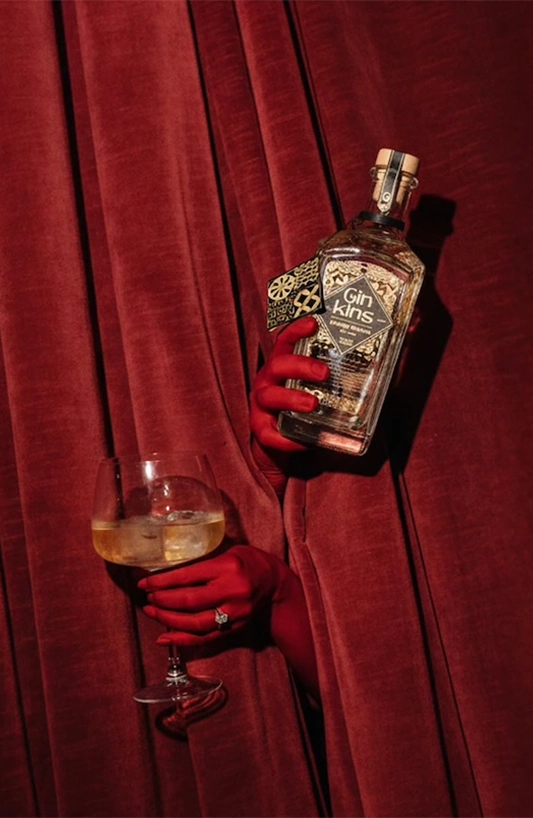
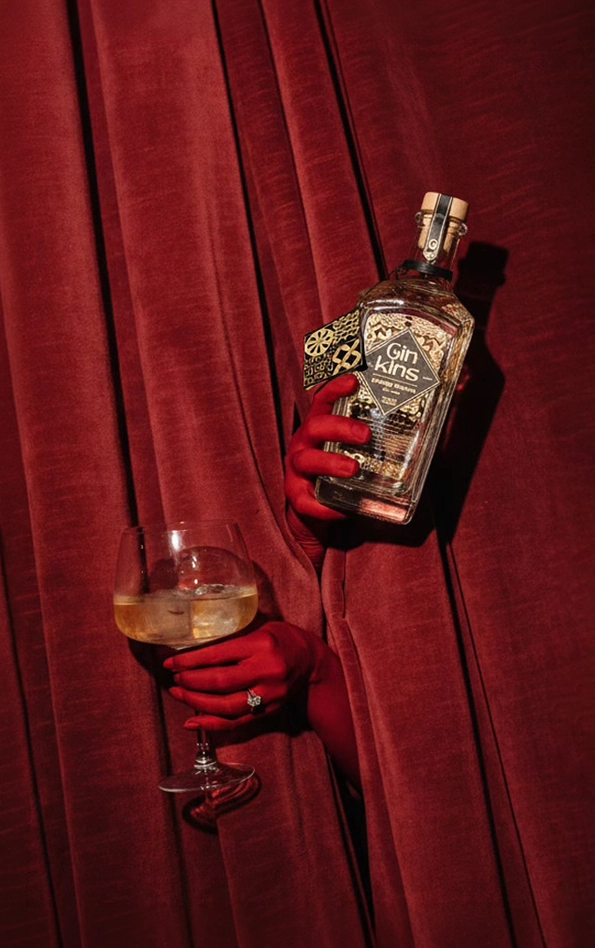
Adjusting animations and images

diff --git a/app/components/Home/Collection/CollectionCarousel.tsx b/app/components/Home/Collection/CollectionCarousel.tsx
@@ -18,7 +18,7 @@ gsap.registerPlugin(CustomEase);
 CustomEase.create('animistaEaseOutQuint', '0.23, 1, 0.32, 1');
 
 const AUTOPLAY_MS = 5500;
-const TRANSITION_MS = 2000;
+const TRANSITION_MS = 1000;
 const DRAG_ACTIVATE_PX = 6;
 const SWIPE_THRESHOLD = 48;
 const VELOCITY_THRESHOLD = 0.45;
@@ -751,39 +751,35 @@ export default function CollectionCarousel() {
       },
     );
 
-    const id = window.requestAnimationFrame(() => {
-      const tl = gsap.timeline({
-        onComplete: () => {
-          if (pendingGhostCleanupRef.current) {
-            pendingGhostCleanupRef.current = false;
-            flushSync(() => {
-              setGhost(null);
-            });
-          }
+    const tl = gsap.timeline({
+      onComplete: () => {
+        if (pendingGhostCleanupRef.current) {
+          pendingGhostCleanupRef.current = false;
+          flushSync(() => {
+            setGhost(null);
+          });
+        }
 
-          setPendingDesktopReveal(false);
-          setIsTransitioning(false);
-          isTransitioningRef.current = false;
-        },
-      });
-
-      targets.forEach(({ el, opacity }, index) => {
-        tl.to(
-          el,
-          {
-            ...getContentRevealVisuals(opacity),
-            duration: 0.42,
-            ease: 'animistaEaseOutQuint',
-            overwrite: 'auto',
-          },
-          index * 0.05,
-        );
-      });
+        setPendingDesktopReveal(false);
+        setIsTransitioning(false);
+        isTransitioningRef.current = false;
+      },
     });
 
-    return () => {
-      window.cancelAnimationFrame(id);
-    };
+    targets.forEach(({ el, opacity }) => {
+      tl.to(
+        el,
+        {
+          ...getContentRevealVisuals(opacity),
+          duration: 0.42,
+          ease: 'animistaEaseOutQuint',
+          overwrite: 'auto',
+        },
+        'syncStart',
+      );
+    });
+
+    return;
   }, [isCompact, pendingDesktopReveal, setDesktopBasePositions]);
 
   useLayoutEffect(() => {

diff --git a/app/components/WhereToBuy/Contact/ContactForm.tsx b/app/components/WhereToBuy/Contact/ContactForm.tsx
@@ -67,13 +67,20 @@ export function ContactForm() {
     }
 
     if (!res.ok) {
-      const body = await res.json();
-      console.error('CONTACT ERROR BODY:', body);
+      const errorMessage =
+        typeof body === 'object' &&
+        body !== null &&
+        'error' in body &&
+        typeof (body as { error?: unknown }).error === 'string'
+          ? (body as { error: string }).error
+          : typeof body === 'object' &&
+              body !== null &&
+              'details' in body &&
+              typeof (body as { details?: unknown }).details === 'string'
+            ? (body as { details: string }).details
+            : raw || 'Something went wrong';
 
-      setErrors({
-        form: [body.error ?? 'Something went wrong'],
-      });
-
+      setErrors({ form: [errorMessage] });
       return;
     }
 

diff --git a/app/components/AgeGate.tsx b/app/components/AgeGate.tsx
@@ -30,7 +30,7 @@ export default function AgeGate() {
     if (!isOpen || denied || !rootRef.current) return;
 
     const ctx = gsap.context(() => {
-      const tl = gsap.timeline({ defaults: { ease: 'power3.out' } });
+      const tl = gsap.timeline({ defaults: { ease: 'expo.out' } });
 
       tl.fromTo(
         '.agegate-reveal-on-scroll-top',
@@ -39,9 +39,9 @@ export default function AgeGate() {
           autoAlpha: 1,
           y: 0,
           scale: 1,
-          duration: 1,
-          delay: 0.2,
-          ease: 'power3.out',
+          duration: 1.2,
+          delay: 1,
+          ease: 'Cubic.easeOut',
         },
       );
       tl.fromTo(
@@ -51,10 +51,11 @@ export default function AgeGate() {
           autoAlpha: 1,
           y: 0,
           scale: 1,
-          duration: 1,
-          delay: 0.2,
-          ease: 'power3.out',
+          duration: 1.2,
+          delay: 0,
+          ease: 'Cubic.easeOut',
         },
+        '<',
       );
     }, rootRef);
 

diff --git a/app/components/NewsletterForm.tsx b/app/components/NewsletterForm.tsx
@@ -24,7 +24,7 @@ export default function NewsletterForm({ isFooter }: Props) {
   const widgetIdRef = useRef<string | null>(null);
   if (isFooter) {
     buttonStyles =
-      'self-center inline-flex items-center justify-center px-3 py-1.5 text-background hover:text-(--primary-black) animatedButton font-medium transition-colors h-9 w-14.5 disabled:opacity-50 group';
+      'self-center inline-flex items-center justify-center px-3 py-1.5 text-background hover:text-(--primary-black) animatedButton font-medium transition-colors h-9 w-23 disabled:opacity-50 group';
     formStyles = 'mt-4 flex flex-col sm:flex-row gap-3 md:items-center w-full';
     inputStyles =
       'text-center md:text-start text-base w-full sm:flex-1 py-2 bg-(--primary-black) border-b border-(--primary-white-100) text-background placeholder-(--secondary-gray-500) focus:placeholder-background focus:outline-none mb-4 md:mb-0';